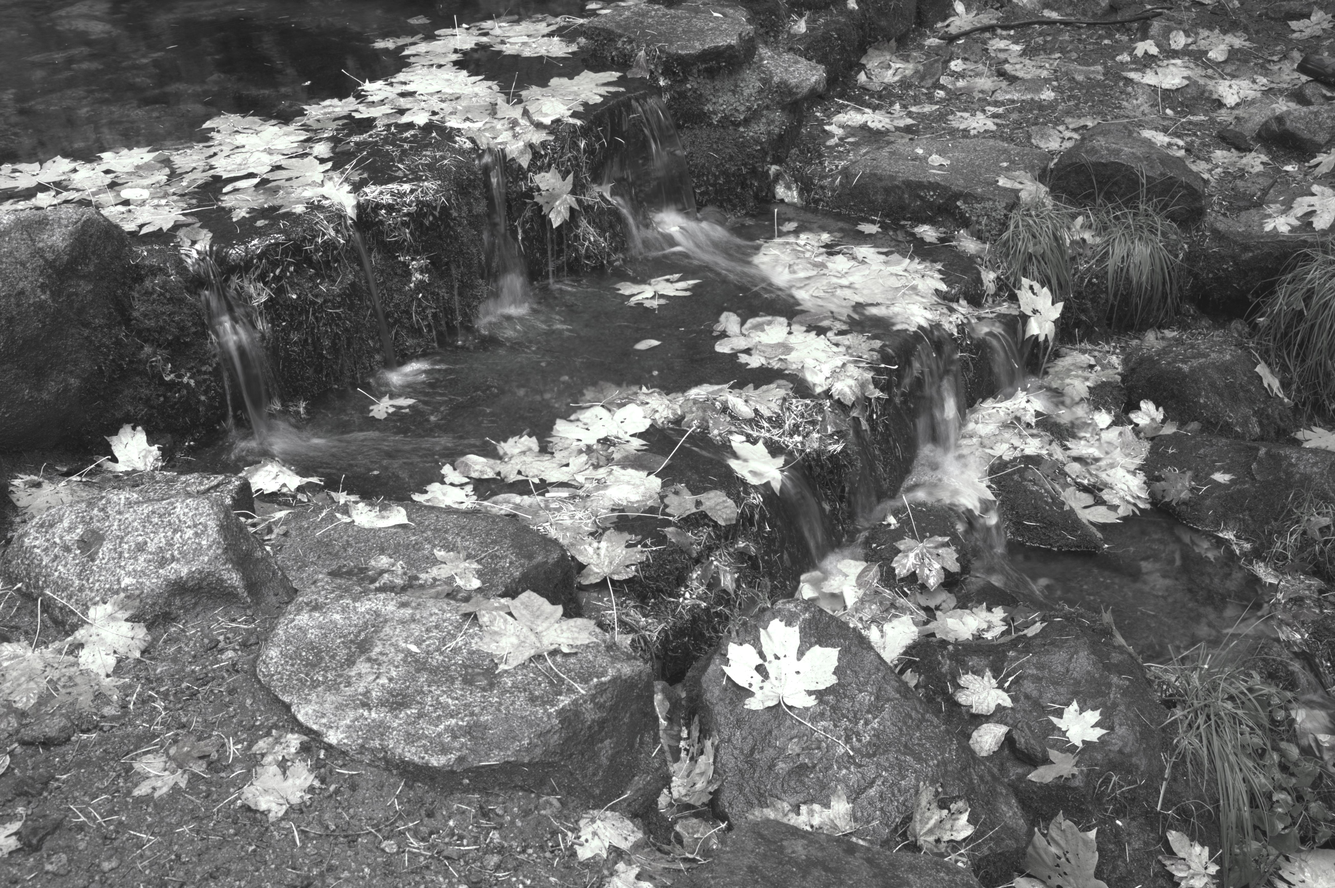
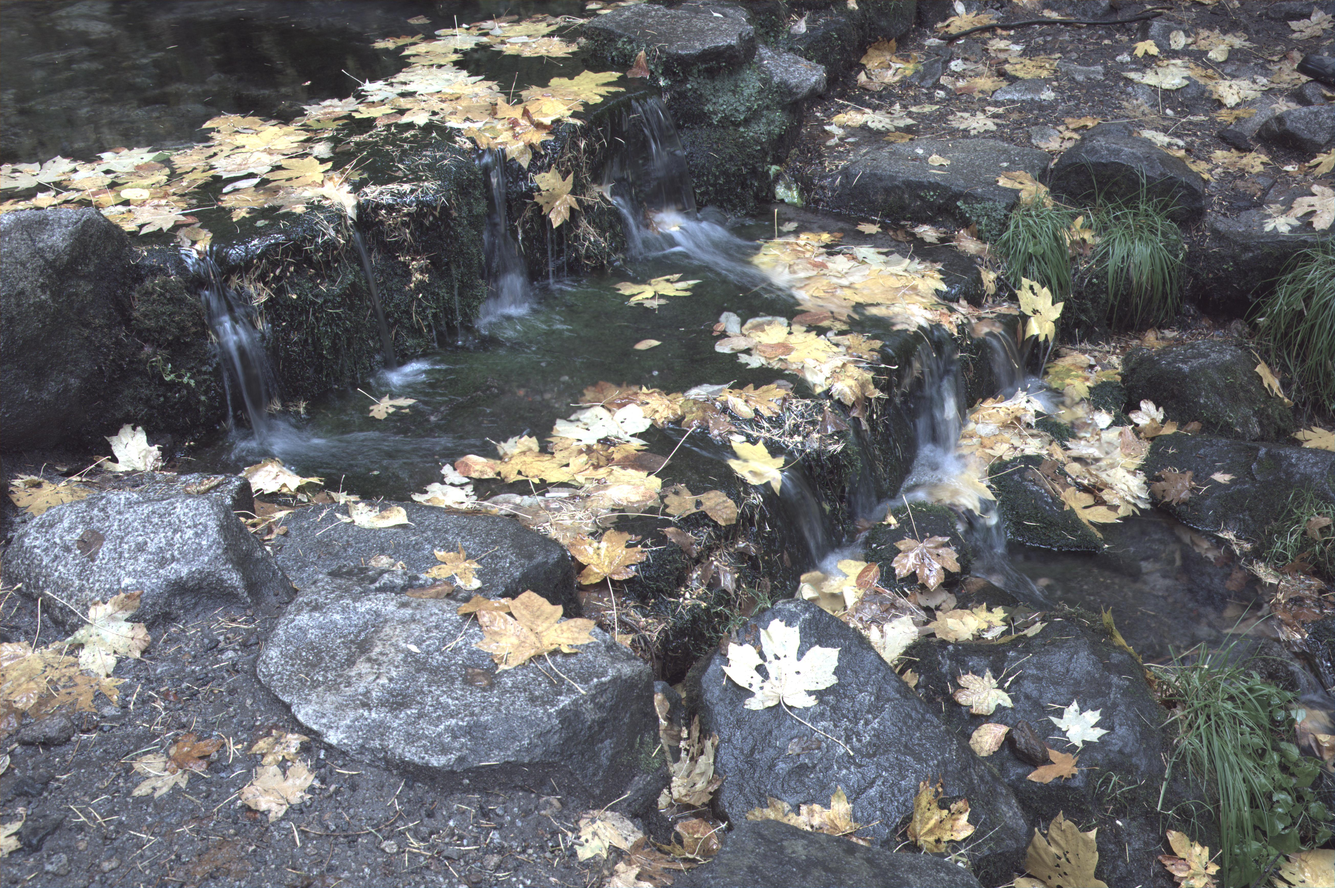
hw1 finished

diff --git a/CV/hw1/hw1.py b/CV/hw1/hw1.py
@@ -50,18 +50,13 @@ def main():
     green_avg_array = np.zeros((height,weight), dtype = float)
     blue_avg_array = np.zeros((height,weight), dtype = float)
 
-    green_kernel = np.array([[0, .25, 0], 
-                            [.25, 0, .25],
-                            [0,.25,0]])
+    green_kernel = np.array([[1, .5],[.5,0]]) 
 
 
-    blue_red_kernel = np.array([[.25, 0, .25], 
-                                 [0,0,0], 
-                                [.25, 0, .25]])
+    blue_red_kernel = np.array([[.25, .5, .25], 
+                                 [.5,1, .5], 
+                                [.25, .5, .25]])
 
-    red_data_for_green_horinztonal = np.array([[0, .5, 0], [0,0,0],[0,.5,0]])
-
-    red_data_for_green_vertical = np.array([[0,0,0], [.5,0,.5],[0,0,0]])
 
 
     red_array[0::2,0::2]= image_array[0::2, 0::2]
@@ -70,39 +65,18 @@ def main():
     blue_array[1::2, 1::2] = image_array[1::2, 1::2] 
 
     # Absolute no idea what I am doing with the averaging was trying to get the colors better
-    green_nearby_array = (correlate(image_array, red_data_for_green_horinztonal) + correlate(image_array, red_data_for_green_vertical)) / 2
+    green_array = correlate(green_array, green_kernel)
+    blue_array= correlate(blue_array, blue_red_kernel)
+    red_array = correlate(red_array, blue_red_kernel)
 
-    green_avg_array = correlate(image_array, green_kernel) + green_nearby_array
-    red_avg_array = correlate(image_array, blue_red_kernel) + correlate(image_array, red_data_for_green_horinztonal) + correlate(image_array, red_data_for_green_vertical)
-    blue_avg_array = correlate(image_array, blue_red_kernel) + correlate(image_array, red_data_for_green_horinztonal) + correlate(image_array, red_data_for_green_vertical)
+    output_array = np.stack((red_array, green_array,  blue_array), axis =2)
 
-    print(red_avg_array)
+    output_array[...,0] = (.25 / np.mean(output_array[...,0])) * output_array[...,0]
+    output_array[...,1] = (.25 / np.mean(output_array[...,1])) * output_array[...,1]
+    output_array[...,2] = (.25 / np.mean(output_array[...,2])) * output_array[...,2]
 
-    green_output_array = green_array + green_avg_array
-    red_output_array = red_array + red_avg_array
-    blue_output_array = blue_array + blue_avg_array
+    output_array = output_array** GAMMA
 
-    green_mean = np.mean(green_output_array)
-    red_mean = np.mean(red_output_array)
-    blue_mean = np.mean(blue_output_array)
-
-    green_scaling = .25 / green_mean
-    red_scaling = .25 / red_mean 
-    blue_scaling = .25 / blue_mean 
-
-    green_output_array = green_output_array * green_scaling
-    red_output_array = red_output_array * red_scaling
-    blue_output_array = blue_output_array * blue_scaling 
-
-    green_output_array = np.power(green_output_array,GAMMA)
-    red_output_array = np.power(red_output_array, GAMMA)
-    blue_output_array = np.power(blue_output_array, GAMMA)
-
-    output_array = np.zeros((height, weight, 3), dtype = float) # 3 because need a spot for rgb
-    print("output shape", output_array.shape)
-    output_array[...,0] = red_output_array
-    output_array[...,1] = green_output_array
-    output_array[...,2] = blue_output_array
     output_array = np.clip(output_array, 0, 1)
 
     output_array = output_array * 255
